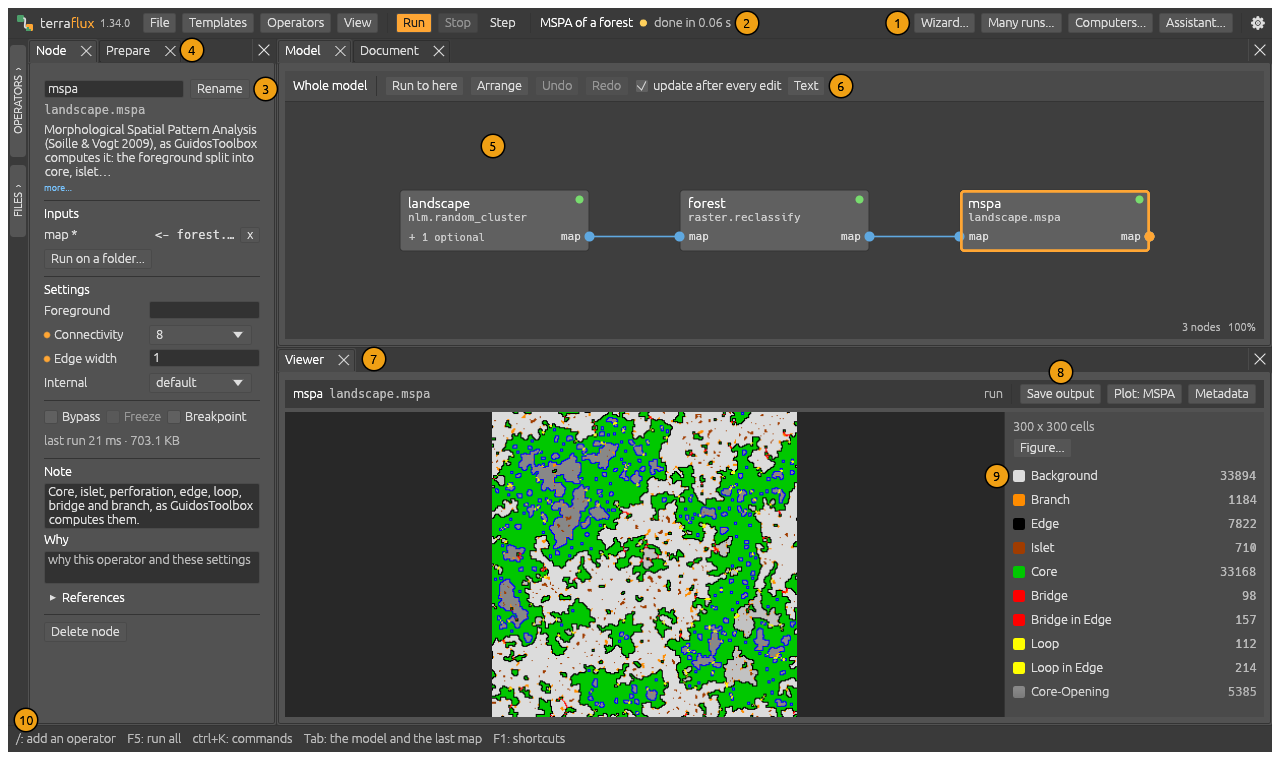
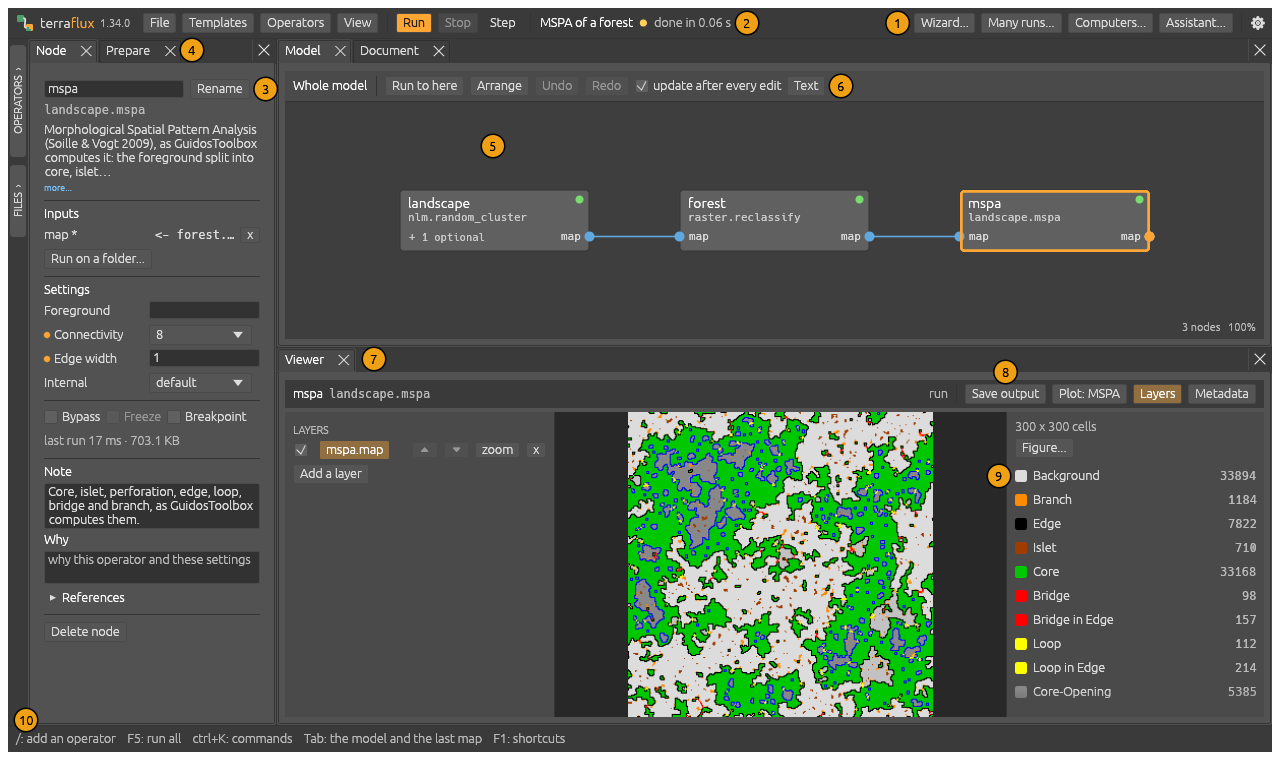
feat(viewer): the Layers in a panel of their own at the map's left

Changed region(s): [[0.2188, 0.4539, 0.9375, 0.9684]]

diff --git a/crates/app/src/builder.rs b/crates/app/src/builder.rs
@@ -2305,19 +2305,7 @@ fn layers_section(
         let active = l.is(&node, &port);
         let row = ui
             .horizontal(|ui| {
-                ui.checkbox(&mut l.visible, "").on_hover_text("shown on the map, or hidden");
-                let name = output_name(&l.node, &l.port);
-                let text = if active { RichText::new(name).strong() } else { RichText::new(name) };
-                let resp = ui.add(egui::Button::selectable(active, text).sense(egui::Sense::click_and_drag()));
-                resp.dnd_set_drag_payload(LayerAt(i));
-                let hint = if vector || active {
-                    "drag it over or under another"
-                } else {
-                    "its legend and settings here; drag it over or under another"
-                };
-                if resp.on_hover_text(hint).clicked() && !vector && !active {
-                    chosen = Some((l.node.clone(), l.port.clone()));
-                }
+                // (the buttons at the right first: the name cut to the room left, not under them)
                 ui.with_layout(egui::Layout::right_to_left(egui::Align::Center), |ui| {
                     if ui.small_button("x").on_hover_text("no longer a layer").clicked() {
                         gone = Some(i);
@@ -2339,6 +2327,23 @@ fn layers_section(
                     {
                         up = Some(i);
                     }
+                    ui.with_layout(egui::Layout::left_to_right(egui::Align::Center), |ui| {
+                        ui.checkbox(&mut l.visible, "").on_hover_text("shown on the map, or hidden");
+                        let name = output_name(&l.node, &l.port);
+                        let text = if active { RichText::new(&name).strong() } else { RichText::new(&name) };
+                        let resp = ui.add(
+                            egui::Button::selectable(active, text).truncate().sense(egui::Sense::click_and_drag()),
+                        );
+                        resp.dnd_set_drag_payload(LayerAt(i));
+                        let hint = if vector || active {
+                            format!("{name}: drag it over or under another")
+                        } else {
+                            format!("{name}: its legend and settings here; drag it over or under another")
+                        };
+                        if resp.on_hover_text(hint).clicked() && !vector && !active {
+                            chosen = Some((l.node.clone(), l.port.clone()));
+                        }
+                    });
                 });
             })
             .response;
@@ -3246,6 +3251,21 @@ pub fn output(ui: &mut Ui, s: &mut Session, r: &Registry, sh: &mut Shown, salt: 
                     crate::metadata::window(ui.ctx(), &format!("{node}.{port}"), &crate::metadata::facts(v), &mut open);
                 }
                 ui.data_mut(|d| d.insert_temp(id, open));
+                // the panel of the layers at the map's left, hidden or shown
+                let id = egui::Id::new(("layers open", salt));
+                let mut layers: bool = ui.data(|d| d.get_temp(id)).unwrap_or(true);
+                let drawn =
+                    matches!(&value, Some(Value::Map(_) | Value::Stack(_) | Value::Raster(_) | Value::Vector(_)))
+                        || matches!(&value, Some(Value::Series(v)) if v.iter().all(|x| matches!(x, Value::Map(_))));
+                if drawn
+                    && ui
+                        .add(egui::Button::new("Layers").selected(layers))
+                        .on_hover_text("the layers drawn with this map, at its left: hidden or shown")
+                        .clicked()
+                {
+                    layers = !layers;
+                    ui.data_mut(|d| d.insert_temp(id, layers));
+                }
                 plots_menu(ui, s, sh, inner.is_none(), salt);
                 // what is shown, saved: a file only, or a file and a node that writes it at every run
                 let maps = matches!(&value, Some(Value::Map(_) | Value::Stack(_) | Value::Raster(_)))
@@ -3963,11 +3983,29 @@ pub fn output(ui: &mut Ui, s: &mut Session, r: &Registry, sh: &mut Shown, salt: 
                     }
                 }
                 ui.add_space(8.0);
-                layers_section(ui, s, r, sh, &others, &main_name, salt);
-                ui.add_space(8.0);
                 draw_section(ui, s, r, sh, maps[k].grid(), salt);
             });
         });
+    // the layers, in a panel of their own at the map's left (its button in the header hides it)
+    let id = egui::Id::new(("layers open", salt));
+    let mut layers_open: bool = ui.data(|d| d.get_temp(id)).unwrap_or(true);
+    let others = {
+        let mut o = map_values(s, r, (&node, &port));
+        let rank =
+            |(n, p): &(String, String)| sh.layers.iter().rev().position(|l| l.is(n, p)).unwrap_or(sh.layers.len());
+        o.sort_by_key(rank);
+        o
+    };
+    egui::Panel::left(egui::Id::new(("layers side", salt)))
+        .resizable(true)
+        .default_size(270.0)
+        .frame(egui::Frame::new().fill(ui.visuals().panel_fill).inner_margin(Margin::same(8)))
+        .show_collapsible(ui, &mut layers_open, |ui| {
+            egui::ScrollArea::vertical().id_salt(("layers scroll", salt)).show(ui, |ui| {
+                layers_section(ui, s, r, sh, &others, &main_name, salt);
+            });
+        });
+    ui.data_mut(|d| d.insert_temp(id, layers_open));
     sh.view.name = main_name.clone();
     let mut hover = None;
     // the map compared, in the colouring of both (none while its look is being made)

diff --git a/crates/app/tests/ui.rs b/crates/app/tests/ui.rs
@@ -2150,6 +2150,13 @@ fn maps_stack_and_cells_show_their_series() {
     drawn(&mut h);
     assert!(h.query_by_label("LAYERS").is_some());
     shot(&mut h, "21-stacked");
+    // the panel of the layers, at the map's left: hidden by its button, and shown again
+    h.get_by_label("Layers").click();
+    h.run_steps(20);
+    assert!(h.query_by_label("LAYERS").is_none(), "the layers hidden");
+    h.get_by_label("Layers").click();
+    h.run_steps(20);
+    assert!(h.query_by_label("LAYERS").is_some(), "the layers shown");
     // B over the map: the satellite under it (once the map is drawn: its colours come from a thread)
     until(&mut h, "the map drawn", |a| a.session.as_ref().unwrap().preview_view.rect().is_some());
     let rect = h.state().session.as_ref().unwrap().preview_view.rect().unwrap();

diff --git a/IDEAS.md b/IDEAS.md
@@ -937,8 +937,8 @@ ordem, transparência, estilo, comparação), mantendo a velocidade de hoje, e *
    (`RasterLayer::below`), as de depois por cima; o mapa mostrado que não é camada vai por cima de todas; os vetores
    sempre por cima. O cursor diz o valor de cada mapa pelo nome (`RasterLayer::name`, `MapView::name`). As camadas
    seguem um nó renomeado e saem com um removido; o projeto do QGIS leva as camadas visíveis. Teste: `ui.rs`
-   (fixar, clicar no nome, ⏷, tirar), `canvas.rs` (o duplo clique fixa). Falta: o painel próprio à esquerda
-   e a medida do Viewer com 1 e 5 camadas (o `canvas::timings` mede o grafo, não o Viewer). Os testes por pixels:
+   (fixar, clicar no nome, ⏷, tirar), `canvas.rs` (o duplo clique fixa). O painel próprio à esquerda feito (o botão *Layers* no cabeçalho o
+   esconde; teste no `maps_stack_and_cells_show_their_series`). Falta: a medida do Viewer com 1 e 5 camadas (o `canvas::timings` mede o grafo, não o Viewer). Os testes por pixels:
    `the_layers_change_the_picture` (por cima, meia opacidade, escondida, por baixo).
 3. **Comparar e dividir dentro do Viewer; o fim das abas `Map`.** (média)
    - Cortina entre a camada de cima e a de baixo (ou duas escolhidas); a diferença (`difference.rs`) como camada

diff --git a/website/content/tutorials/getting-started/tour.md b/website/content/tutorials/getting-started/tour.md
@@ -91,7 +91,9 @@ dragged below the Model, to see both:
    node selected and what it needs, ++ctrl+enter++), **Arrange** (tidy the nodes, ++ctrl+l++), **Undo** and **Redo**, **update after
    every edit** (run again by itself after every change) and **Text** (the model as text).
 7. **The Viewer.** It shows what the node selected gives, refreshed at every run; a double click on a node
-   brings it to the front with that node's output, and keeps it there as a layer.
+   brings it to the front with that node's output, and keeps it there as a layer. The **Layers** at the map's
+   left list the maps and vectors drawn together (shown or hidden, dragged over or under each other, their
+   opacity, *zoom* to see all of one); the *Layers* button above the map hides them.
 8. **Save output** (the map shown as a GeoTIFF file, with or without a [[raster.write]] node added to the model),
    the **Plots** of the model (here *Plot: MSPA*, the one shown: what the Viewer shows kept with the model, see
    [Plots and figures](../../building-models/plots-and-tables/)) and **Metadata** (what the file or map says about

diff --git a/CHANGELOG.md b/CHANGELOG.md
@@ -15,6 +15,8 @@ minor versions.
   takes a layer's `palette` by its name in the Viewer (or its first word: `cividis`, `terrain, logarithmic`).
 - Viewer: **Zoom to layer**: the "zoom" of a layer in the Layers puts the view on all of it (a map's extent, the
   box of vector features); the map shown fits again.
+- Viewer: **the Layers in a panel of their own** at the map's left, hidden and shown by the *Layers* button above
+  the map (no longer in the panel at its right); a layer's name is cut short rather than run under its buttons.
 - Viewer: a layer is **dragged by its name** onto another's row to take its place in the Layers.
 - Viewer: the pointer tells **the feature of every vector layer** under it (each by its layer's name, with its
   attributes), not only the topmost one's.
